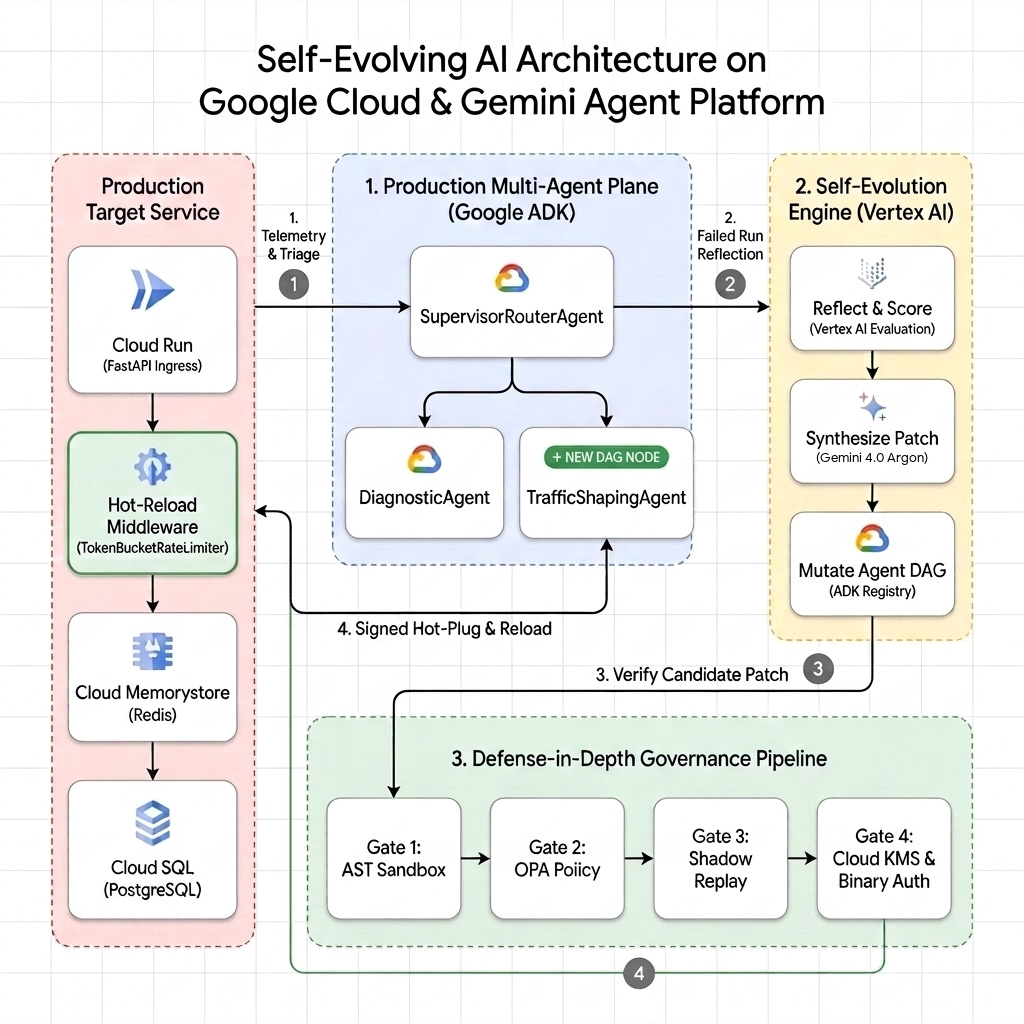
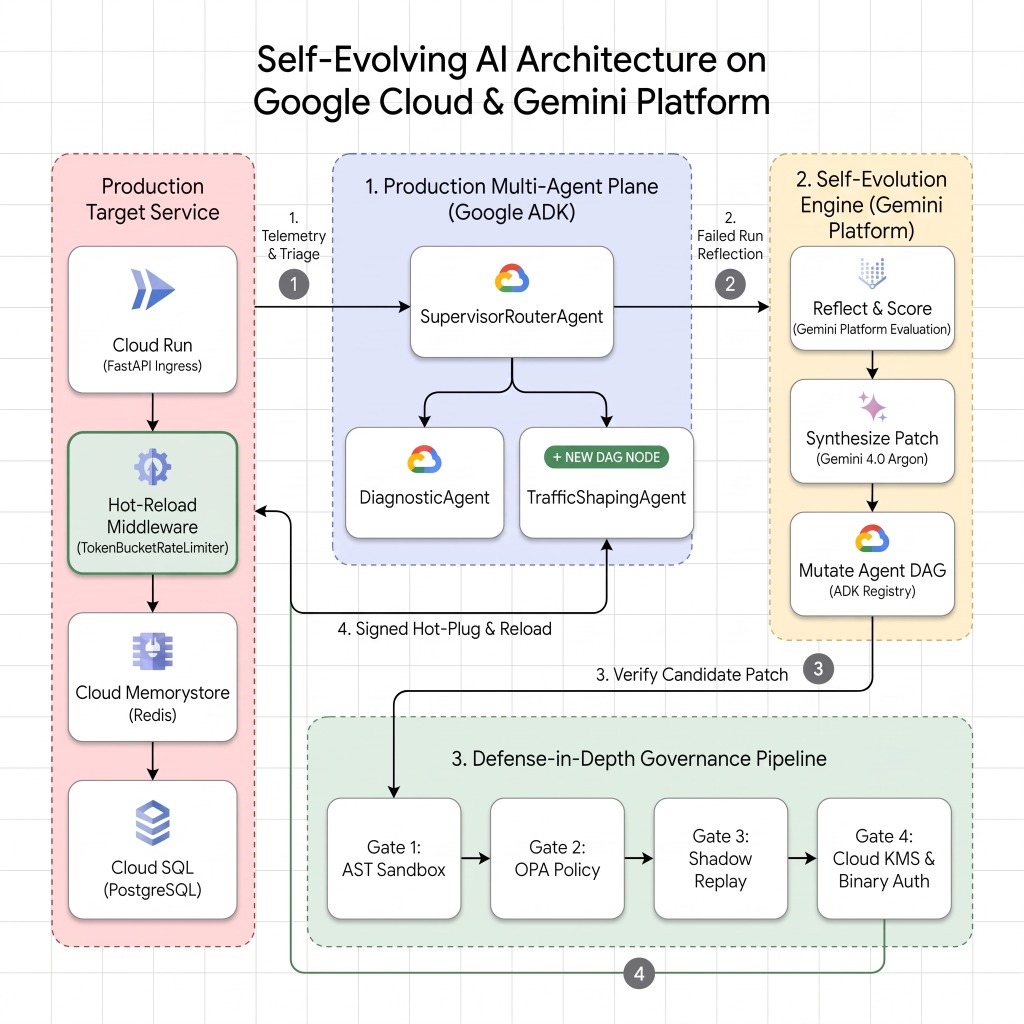
docs: update architecture diagram (Gemini Platform naming)

diff --git a/README.md b/README.md
@@ -12,7 +12,7 @@
 > - **Architecture Specification:** [docs/architecture_specification.md](docs/architecture_specification.md)  
 > - **Google Cloud Agent Platform Edition (Recommended):** [`agent_platform_version/`](agent_platform_version/README.md) — Gemini-synthesized hotpatches behind sandbox gates, Cloud KMS code signing + Binary Authorization, Policy-as-Code controller, a Tier-2 dual-custody Human-in-the-Loop (HITL) approval modal, and BigQuery Dream-RSI counterfactual sweeps.
 
-![Self-Evolving AI Architecture on Google Cloud & Gemini Agent Platform](docs/self_evolving_ai_architecture.jpeg)
+![Self-Evolving AI Architecture on Google Cloud & Gemini Platform](docs/self_evolving_ai_architecture.jpeg)
 
 This repository resolves the fundamental SRE trilemma (**Exploration Risk**, **Brittle Generalization**, and **Coarse Credit Assignment**) by unifying three recursive self-improvement paradigms into an extensible multi-agent framework built with **Google Agent Development Kit (ADK) 2.0** (`google-adk`) and powered by **Gemini 4.0 Argon on Vertex AI**.
 

diff --git a/agent_platform_version/README.md b/agent_platform_version/README.md
@@ -11,7 +11,7 @@ This edition of Project Chrysalis layers an enterprise **Security & Governance C
 > 📖 **Read the Full Google Cloud Blog Post:**  
 > For an intuitive, end-to-end breakdown of Self-Evolving AI, Recursive Self-Improvement (RSI), the Black Friday SRE use case, cloud architecture, and mathematical attribution formulas, see [Architecting Governed, Self-Evolving AI Agents on Gemini Enterprise Agent Platform](https://developers.googleblog.com/architecting-governed-self-evolving-ai-agents-on-gemini-agent-platform).
 
-![Self-Evolving AI Architecture on Google Cloud & Gemini Agent Platform](../docs/self_evolving_ai_architecture.jpeg)
+![Self-Evolving AI Architecture on Google Cloud & Gemini Platform](../docs/self_evolving_ai_architecture.jpeg)
 
 ---
 
